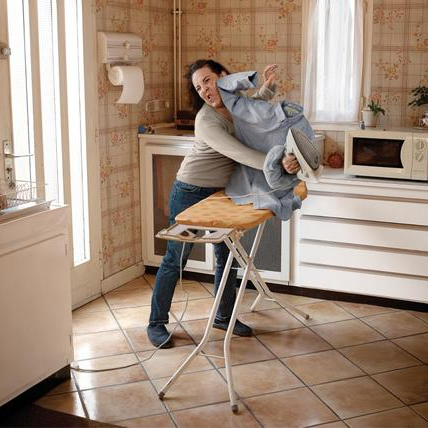
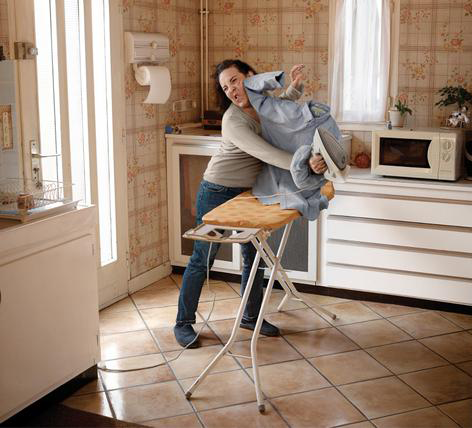
images replaced: better reframing, positioning problem solved

diff --git a/public/views/pres1/views/sheet6.html b/public/views/pres1/views/sheet6.html
@@ -43,11 +43,10 @@
         </div>
     </div>
     <div class="main_container_answer container col s6">
-            <div class="marking" ng-show="true">
+            <!-- <div class="marking" ng-show="true">
                 <img class="responsive-img" src="./assets/icon/angry_red.png" alt="faux">
-            </div>
-            <div id="zoom"></div>
-            <img class="responsive-img col s6" id="zoom_sur" src="views/pres1/assets/img/large/tefal_left.png">
-            <img class="responsive-img col s6 slideExpandUp" id="zoom_sur" src="views/pres1/assets/img/large/tefal_right.png">
+            </div> -->
+            <img class="responsive-img" src="views/pres1/assets/img/large/tefal_left.png">
+            <img class="responsive-img slideExpandUp" id="slideSixPosition" src="views/pres1/assets/img/large/tefal_right.png">
     </div>
 </div>

diff --git a/public/assets/css/style.css b/public/assets/css/style.css
@@ -195,3 +195,7 @@ h2 {
 .parcours_resume {
   margin-top: 75%;
 }
+
+#slideSixPosition {
+  margin-left: -0.5%;
+}
